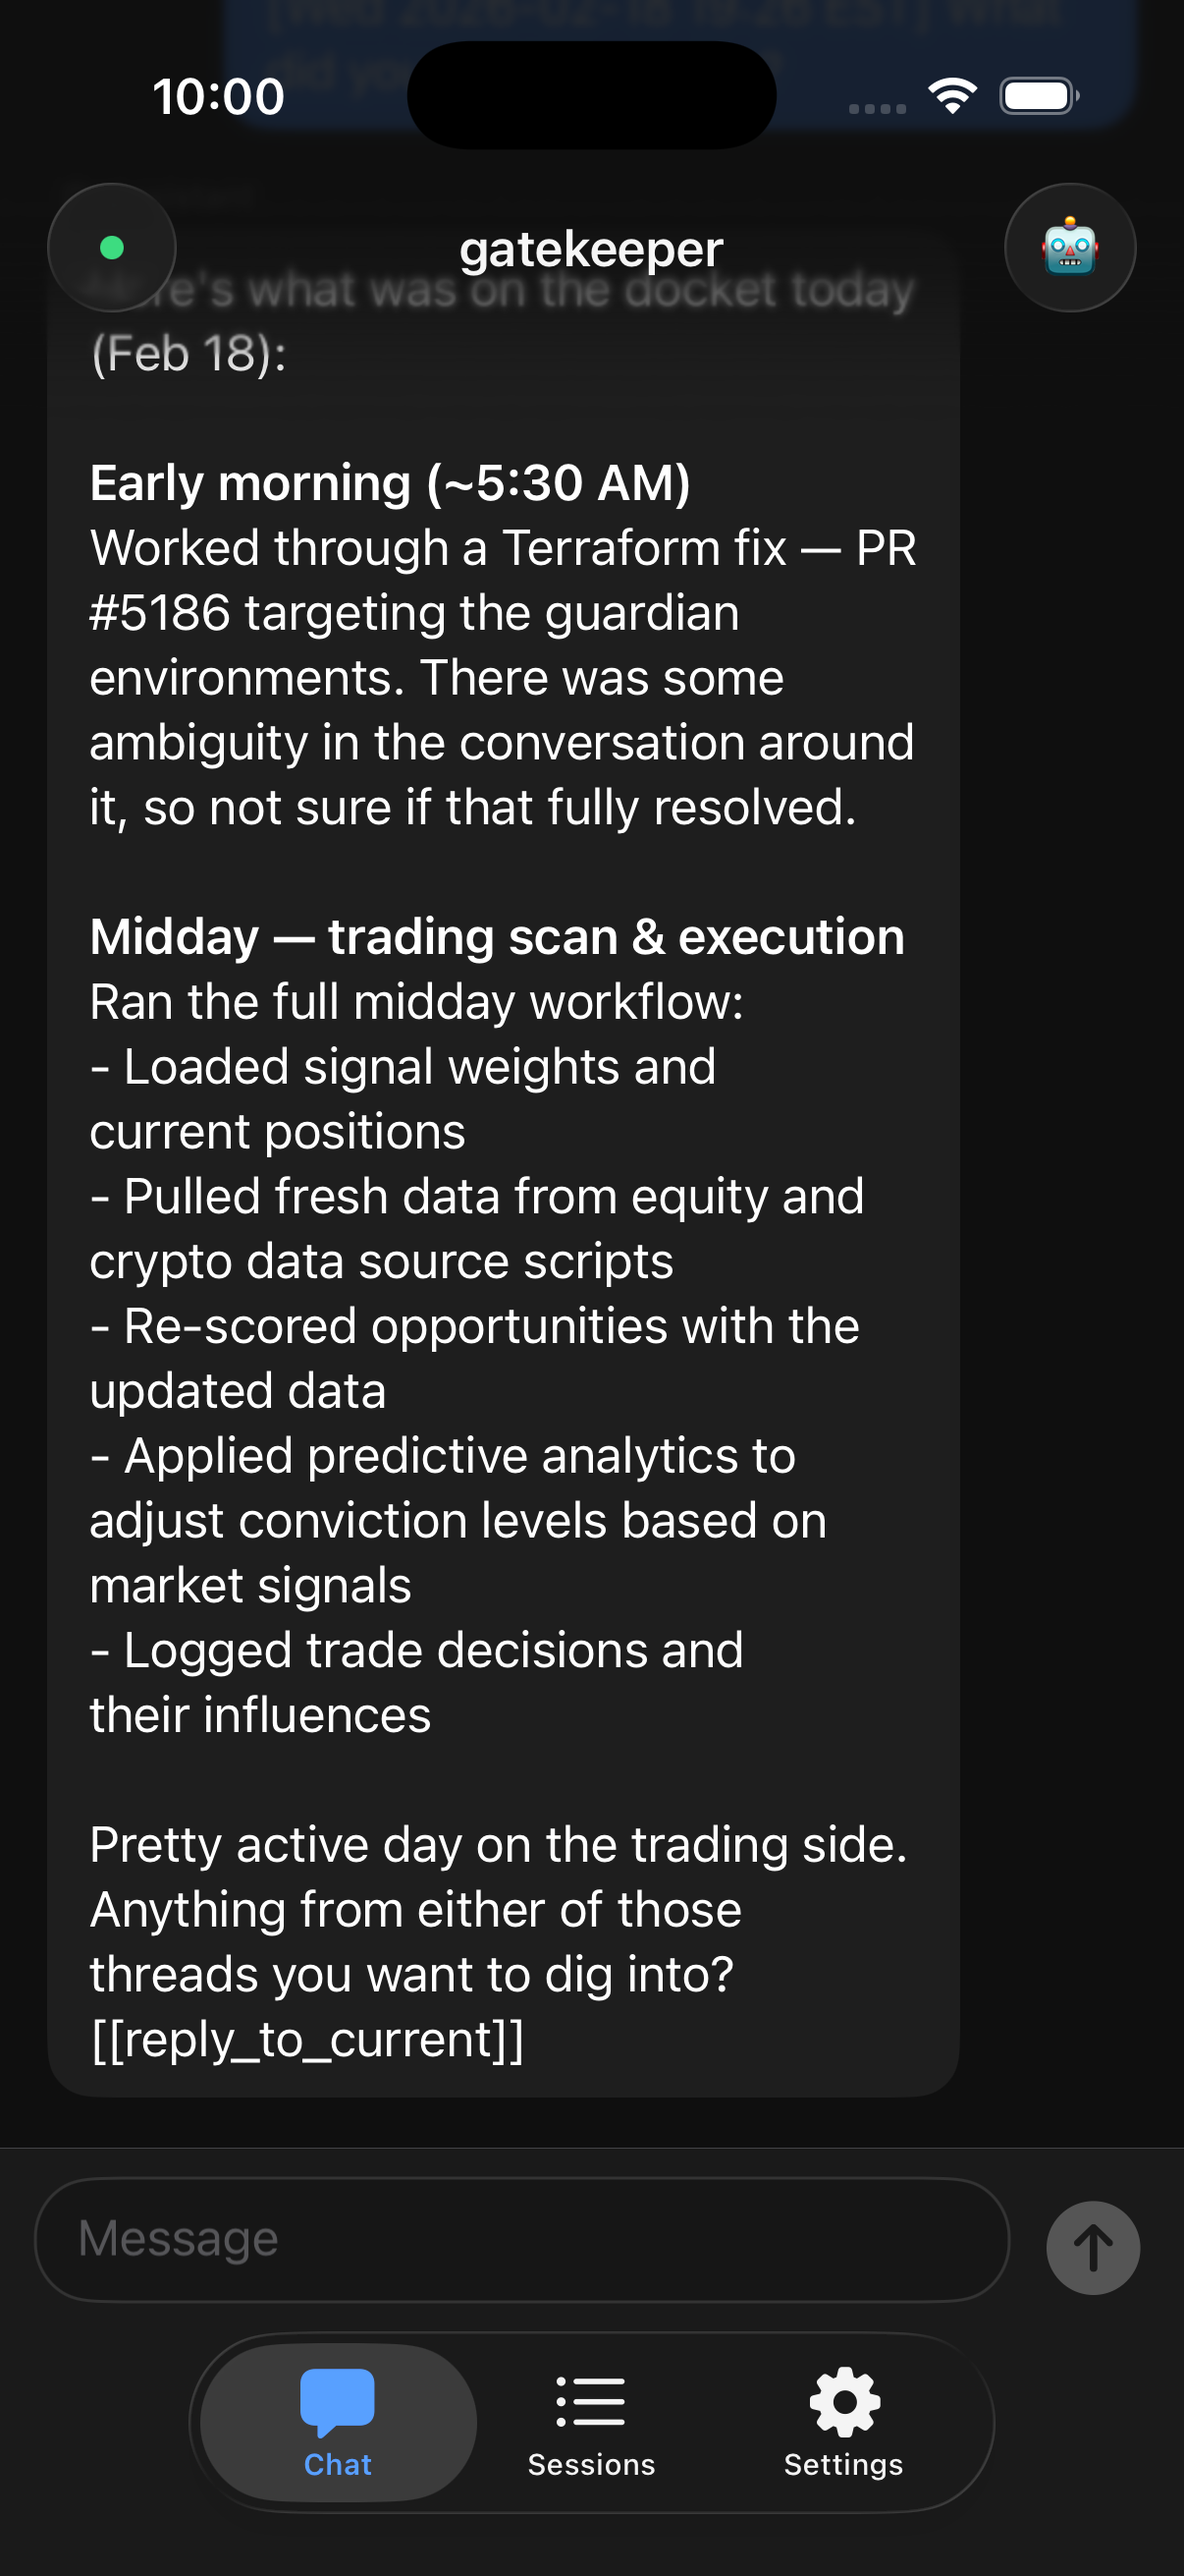
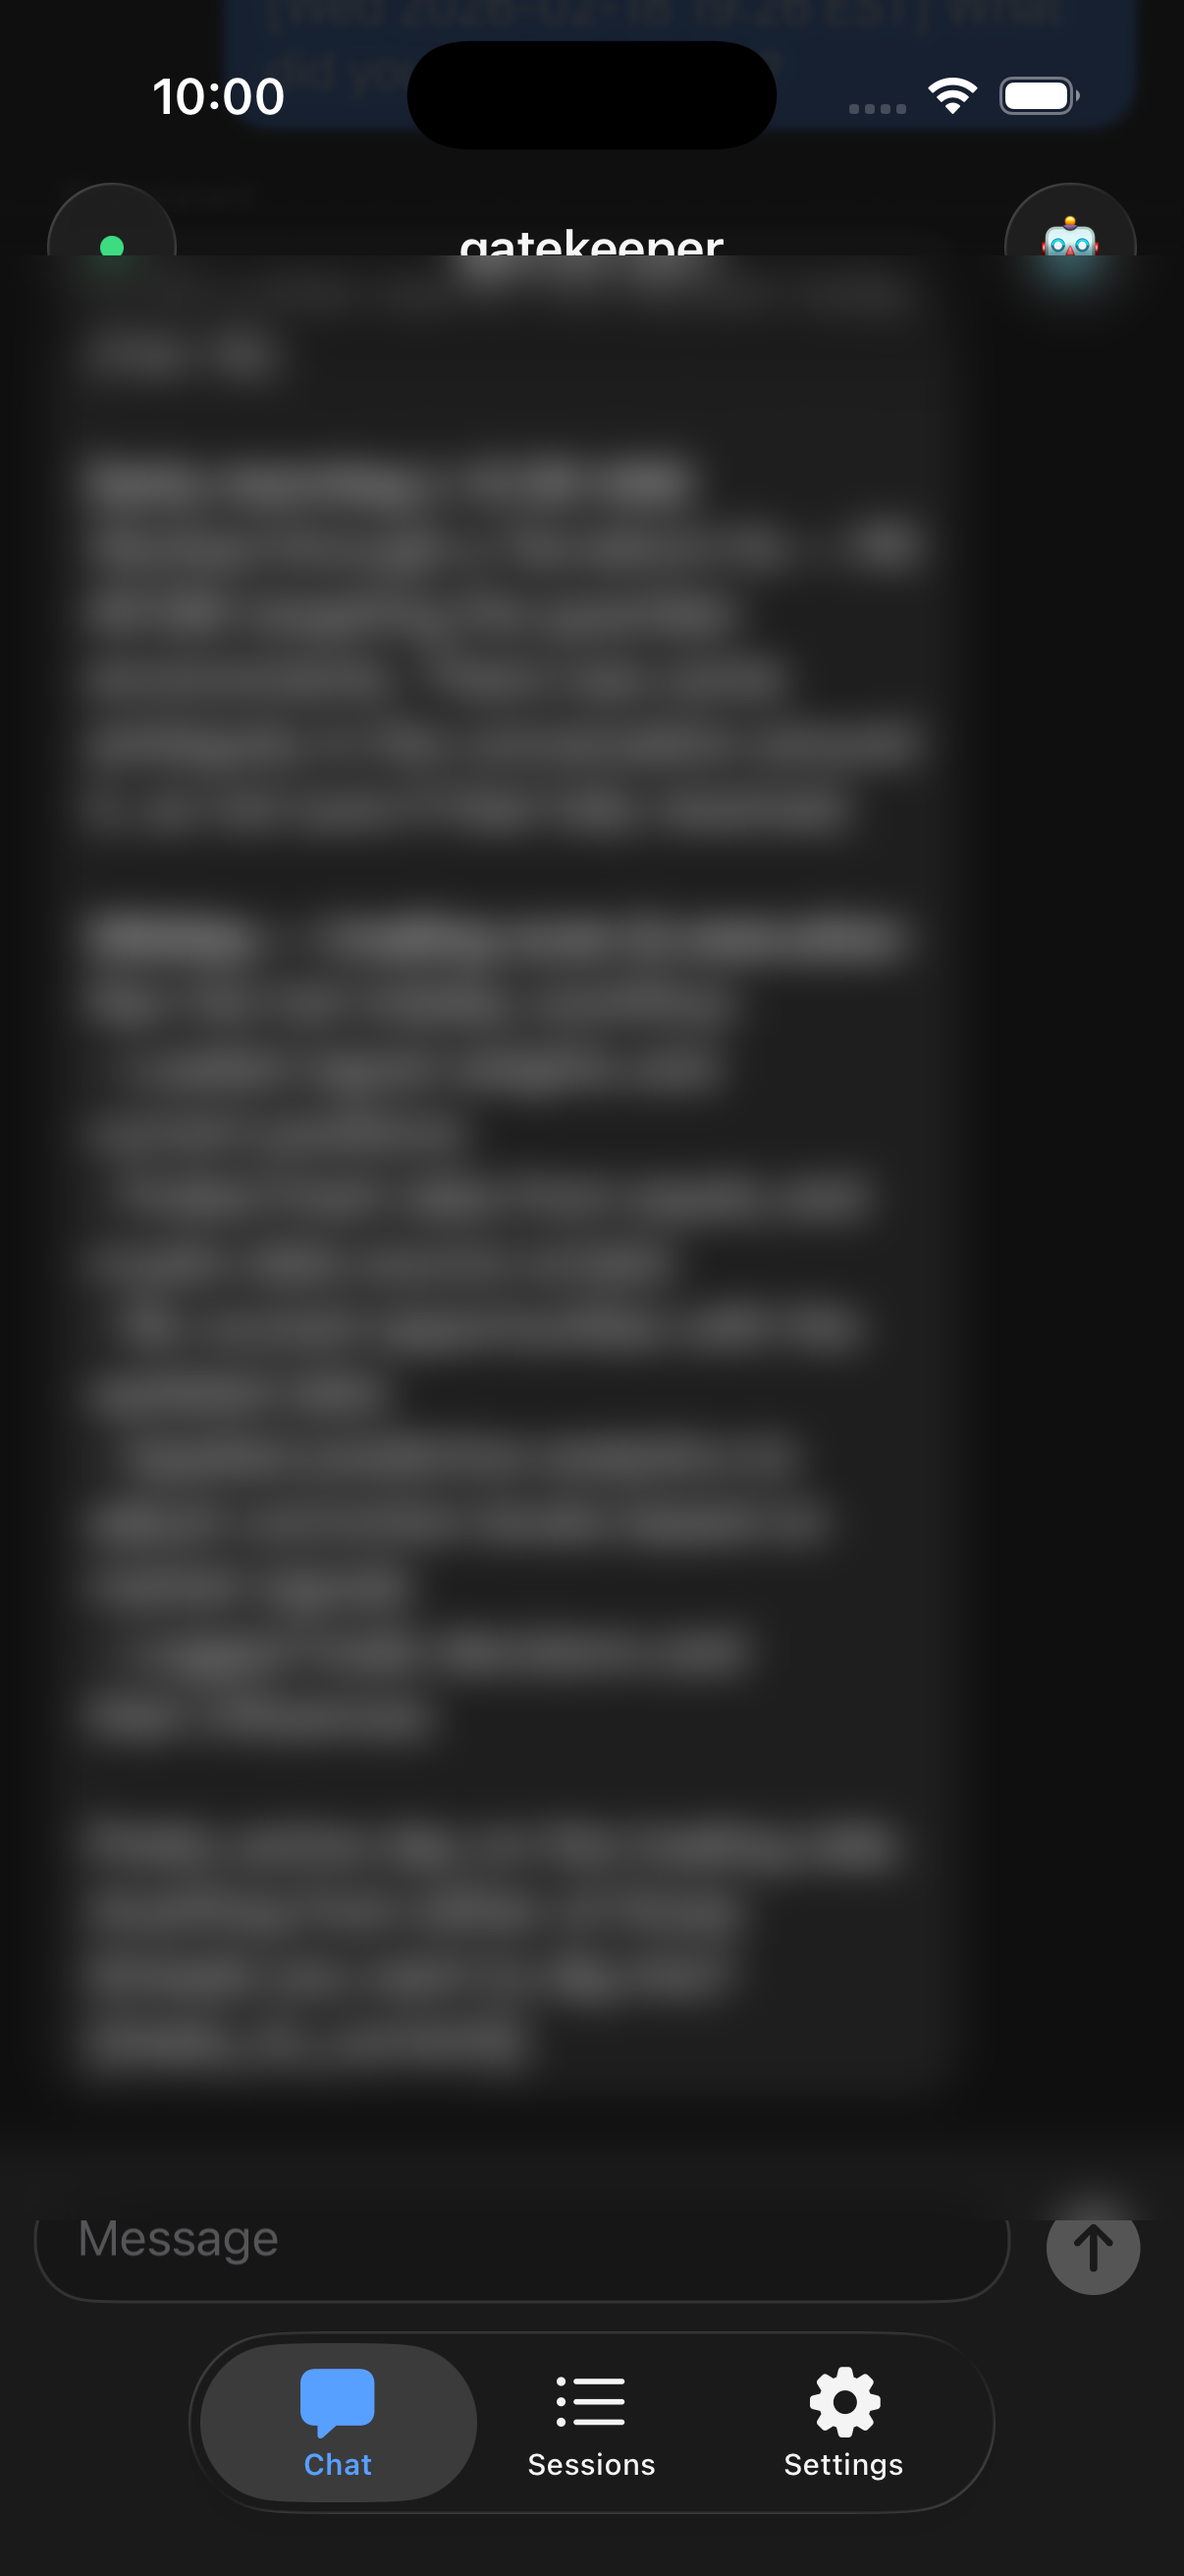
Sanitize screenshots and add settings view to README
Redact sensitive info (hostname, username, SSH key) from settings
screenshot, blur chat message content, and include both screenshots
in the README.

diff --git a/README.md b/README.md
@@ -20,6 +20,8 @@ BlueClaw is a native iOS client for [OpenClaw](https://github.com/priceconsultin
 
 <p align="center">
   <img src="screenshots/chat.png" width="300" alt="Chat View">
+  &nbsp;&nbsp;
+  <img src="screenshots/settings.png" width="300" alt="Settings View">
 </p>
 
 ## Requirements
